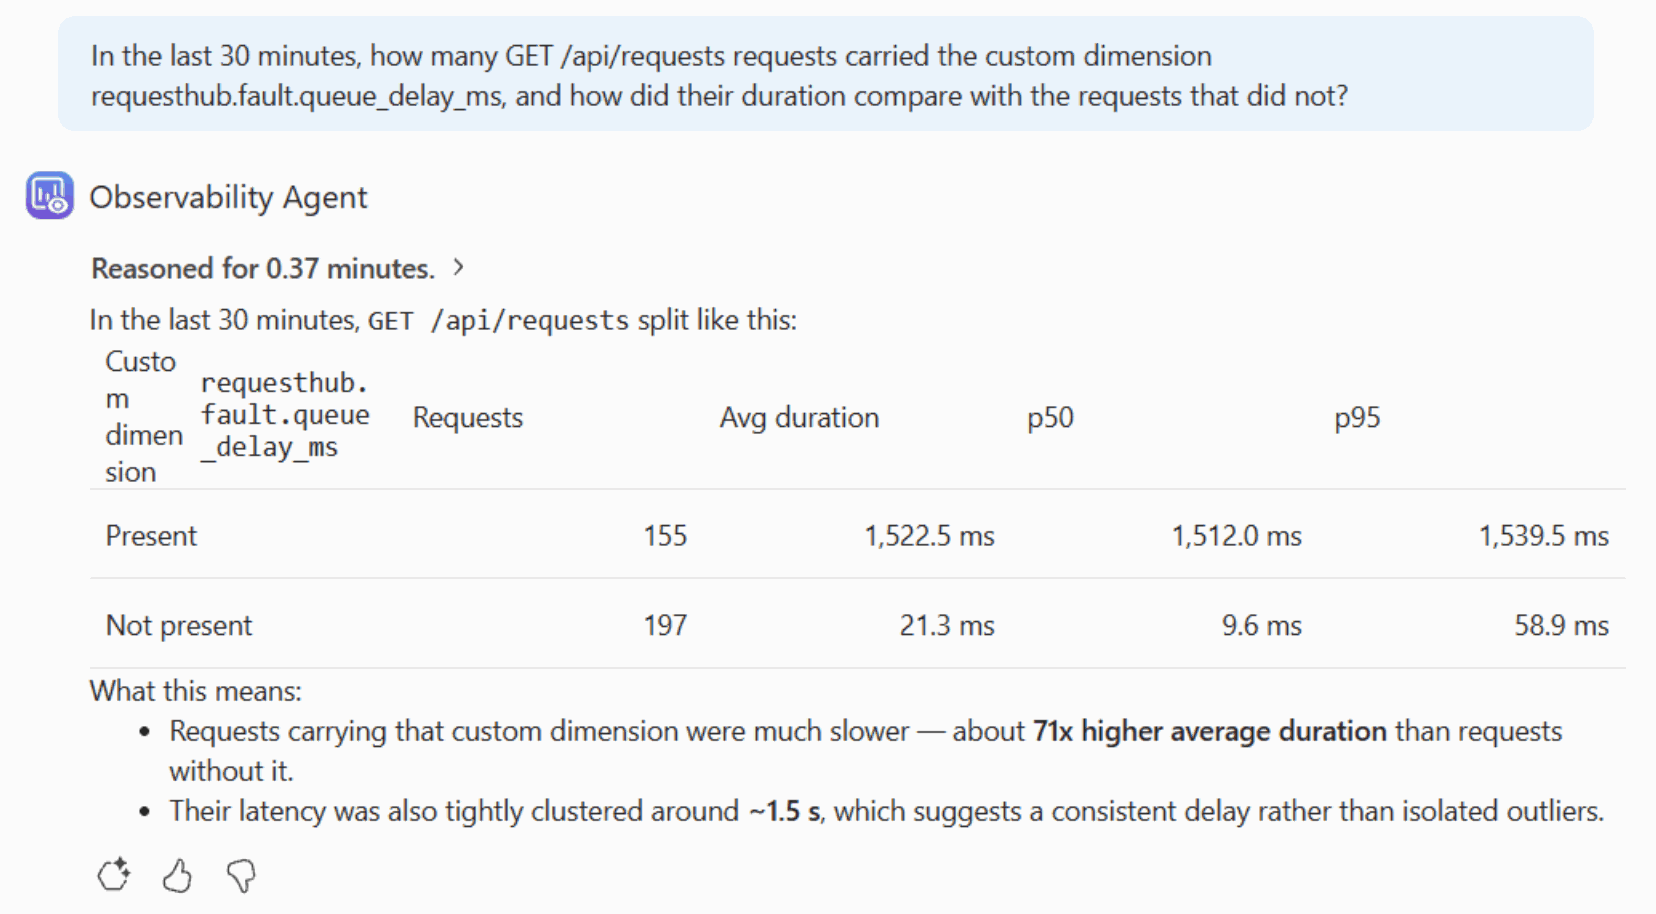
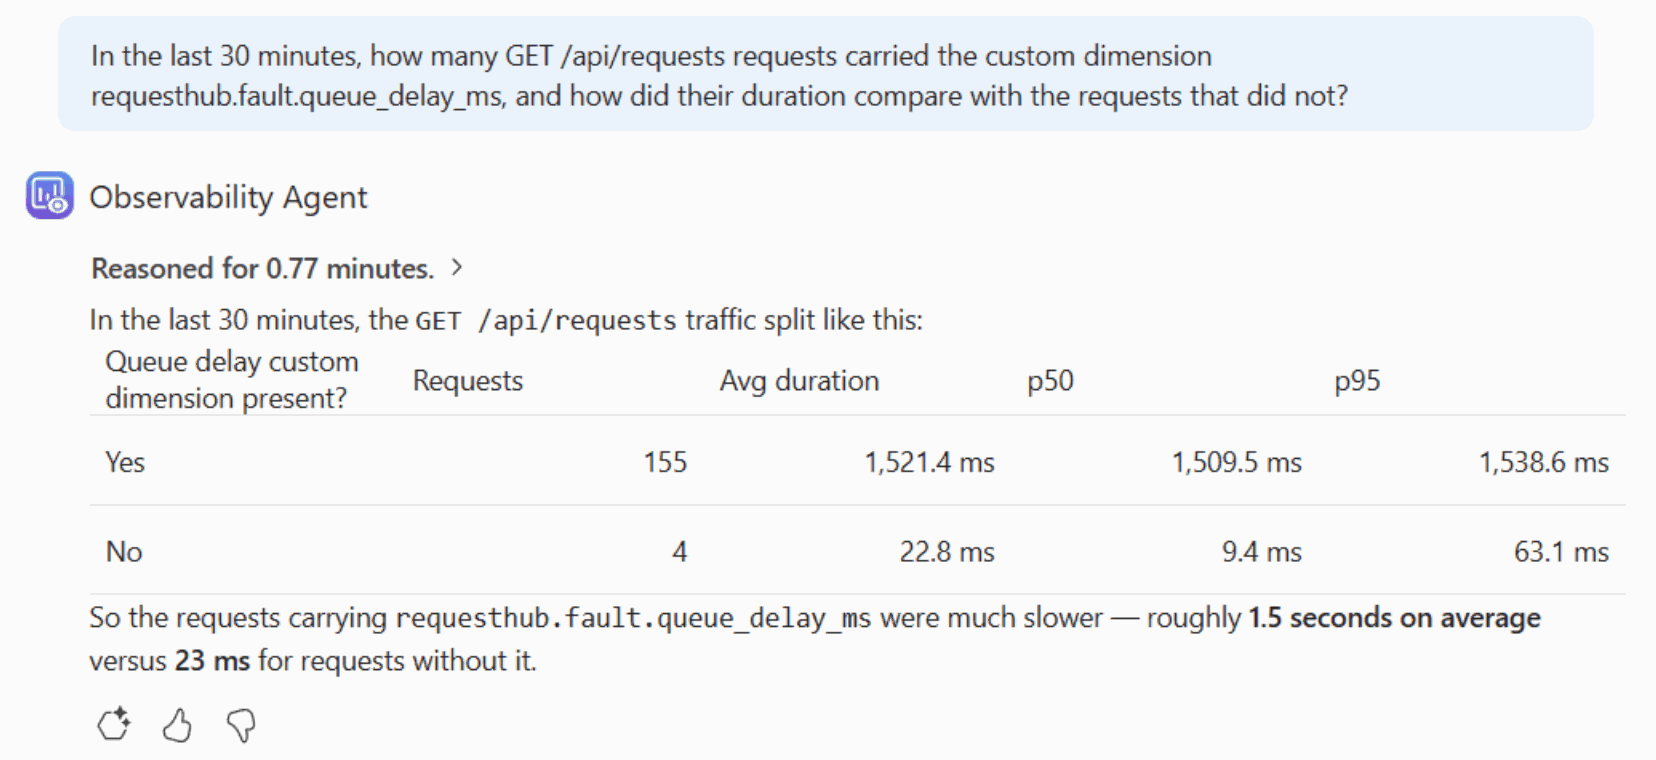
04-test-microsoft: screenshots from one live sequence with the Logic App posting to GitHub
With the GitHub token set, one live sequence on 2026-10-30: the slowdown, a failing run, the Logic App opening Issue #180, the Observability Agent's two answers, the fix, and a passing run that closed the Issue. The starting state, the test page, the notification rule, and steps 4 to 8 come from that sequence, so every number matches; steps 6 and 8 show the Logic App's run and the Issue again. Step 7 describes what this run's AI said: the summary missed the server metrics on its own dashboard, and the agent found the injected delay this time, with every number matching our own KQL. A run reaches its verdict in 8 to 9 minutes.

diff --git a/solutions/04-test-microsoft/README.md b/solutions/04-test-microsoft/README.md
@@ -2,7 +2,7 @@
 
 Most teams find out how their app behaves under load in production: a realistic load test is hard to set up, needs credentials, and produces charts nobody turns into a decision. In this solution the test lives in the repository, where people review changes to it, and everything else happens in Azure. Azure Load Testing runs RequestHub's real request-and-approval journey, signed in as two managed identities, and judges each run against pass/fail criteria. A notification rule hands every finished run to a Logic App, which writes the report and opens or closes a GitHub Issue. Two AI tools in Azure help explain a failure: the run's AI insights, and the Azure Copilot Observability Agent, which answers questions about the API's telemetry. A rehearsal slowdown on the deployed API shows the whole loop, and shows why people still check what the AI says.
 
-![The slowdown run in Azure Load Testing: Failed, test criteria not met. The experimental AI summary suggests backend constraints, more failed HTTP requests, and a container app limited to one replica; the statistics show 541 requests, a 1.52 second 90th percentile response time, and 0 percent errors](images/05-failed-run.png)
+![The slowdown run in Azure Load Testing: Failed, test criteria not met. The experimental AI summary says response times spiked on team-queue and my-requests and calls the root cause unclear because server metrics are missing; the statistics show 579 requests, a 1.51 second 90th percentile response time, and 0 percent errors](images/05-failed-run.png)
 
 ## Where it fits
 
@@ -153,16 +153,16 @@ About 5 minutes, from `solutions/04-test-microsoft`.
 
 2. **Open in advance.** In the browser, signed in: the Azure portal on resource group `rg-ai-sdlc-test` › the Load Testing resource › **Tests** › `requesthub-journey`; the Logic App's **Run history**; and the Application Insights resource › **Logs** with the **Agent** toggle on (close the Queries hub). The repository's Issues, filtered by the `load-test` label. A PowerShell 7 terminal in this folder. In your editor: [`loadtest/requesthub-journey.yaml`](loadtest/requesthub-journey.yaml) and [`loadtest/locustfile.py`](loadtest/locustfile.py).
 
-3. **Start early.** A run reaches its verdict about 8 minutes after you start it: 3 to start the engine, 2 of load, about 3 to compute the results. The Logic App reports it about 2 minutes later. Start step 2 about 10 minutes before you show it, and start step 8 when you open questions.
+3. **Start early.** A run reaches its verdict 8 to 9 minutes after you start it: about 3 to start the engine, 2 of load, and 3 to 4 to compute the results. The Logic App reports it about 2 minutes later. Start step 2 about 10 minutes before you show it, and start step 8 when you open questions.
 
    | Step | Takes | Where the time goes |
    | --- | --- | --- |
-   | 2. Baseline run | about 8 minutes | engine start, 2 minutes of load, results |
+   | 2. Baseline run | 8 to 9 minutes | engine start, 2 minutes of load, results |
    | 4. Slowdown on | 1 to 3 minutes | a new API revision rolls out |
-   | 5. Run again | about 8 minutes | the same run |
+   | 5. Run again | 8 to 9 minutes | the same run |
    | 6. Issue opens | about 2 minutes after the verdict | the notification, the Logic App waits for the verdict and telemetry |
    | 7. AI explains | about 5 minutes | about a minute per question to the Observability Agent |
-   | 8. Fix and confirm | about 12 minutes | 1 to 3 for the revision, about 8 for the run, about 2 for the Issue to close |
+   | 8. Fix and confirm | about 12 minutes | 1 to 3 for the revision, 8 to 9 for the run, about 2 for the Issue to close |
 
    Live from start to finish, the demo takes about 45 minutes; with step 2 started early and step 8 during questions, about 30.
 
@@ -188,7 +188,7 @@ In your editor, show [`loadtest/requesthub-journey.yaml`](loadtest/requesthub-jo
 
 ### 2. Run the baseline
 
-*About 8 minutes to the verdict. Go on to talk about the journey while it runs.*
+*8 to 9 minutes to the verdict. Go on to talk about the journey while it runs.*
 
 On the test page, select **Run**, then **Run** on the confirmation pane. Or, from the terminal, give the run a name:
 
@@ -226,13 +226,13 @@ python slowdown.py on
 
 This sets `Faults__QueueDelayMs=1500` and `Faults__ExpiresAtUtc` (30 minutes ahead) on the API, which rolls out a new revision. The script waits until the revision takes all traffic, calls the request list once to warm it up, then times three more calls from your machine. That time includes a network round trip, so look at the jump, not the absolute number.
 
-![slowdown.py on: 1,500 ms injected on the request list, expiring in 30 minutes; API revision 0000017 takes all traffic, the previous revision is deactivated, and GET /api/requests now takes 1,739 ms](images/04-slowdown-on.png)
+![slowdown.py on: 1,500 ms injected on the request list, expiring in 30 minutes; API revision 0000020 takes all traffic, the two previous revisions are deactivated, and GET /api/requests now takes 1,722 ms](images/04-slowdown-on.png)
 
 **Point out:** the fault switches itself off when it expires, even if the demo is interrupted.
 
 ### 5. Run again: the gate fails
 
-*About 8 minutes to the verdict.*
+*8 to 9 minutes to the verdict.*
 
 ```powershell
 az load test-run create --load-test-resource $lt -g rg-ai-sdlc-test --test-id requesthub-journey `
@@ -241,11 +241,11 @@ az load test-run create --load-test-resource $lt -g rg-ai-sdlc-test --test-id re
 
 The run completes with **Failed**: the two list requests miss their criteria, and submit, decide, and the error rate pass.
 
-![The After the slowdown run's test criteria: my-requests at 1,580 ms and team-queue at 1,600 ms fail their 1,000 ms limit at the 95th percentile; decide at 92 ms and submit at 197 ms pass their 1,500 ms limit, and the error rate passes at 0 percent](images/05-failed-criteria.png)
+![The After the slowdown run's test criteria: my-requests at 1,570 ms and team-queue at 1,580 ms fail their 1,000 ms limit at the 95th percentile; decide at 107 ms and submit at 106 ms pass their 1,500 ms limit, and the error rate passes at 0 percent](images/05-failed-criteria.png)
 
 Scroll down for the client-side and server-side metrics of the same window.
 
-![Client-side and server-side metrics of the After the slowdown run: my-requests and team-queue at about 1.5 seconds at the 90th percentile from the first minute, while decide and submit stay below 200 ms, and no client errors. On the server: one replica, low CPU on the API and the database, and a few failed requests](images/05-failed-metrics.png)
+![Client-side and server-side metrics of the After the slowdown run: 10 virtual users; my-requests and team-queue at about 1.55 seconds at the 90th percentile throughout, decide and submit below 120 ms after the first seconds, and no client errors. On the server: one replica, the API's CPU at most about 20 percent, the database's around 10 percent with about 11 connections, and a few failed requests, which are the journey's deliberate 403 checks](images/05-failed-metrics.png)
 
 **Point out:** the criteria isolate the regression to the two list requests while the rest of the journey stays fast.
 
@@ -255,35 +255,38 @@ Scroll down for the client-side and server-side metrics of the same window.
 
 Open the Logic App's **Run history** and select the newest run. Azure Load Testing's notification rule called the action group, which called the Logic App. The Logic App waited until the run had its verdict and Application Insights had the run's last requests. It built the report from the run and the API's telemetry, found no open Issue for this test, and opened one.
 
-**Point out:** the report proves the cause. Its verdict says 148 server requests carried the injected delay, so it labels the run an expected failure, a rehearsal of the gate, not an acceptance run. The server-side counts run below the client's (148 against 182 list requests) because under load Application Insights keeps only a sample of the API's requests. The Issue names the run and the resource group, never a host name or an id.
+![The lower half of the Logic App's run for the After the slowdown notification: Wait for the telemetry passed on its first check, then Build the report, Report, and Verdict; GitHub token configured took the True branch through Find the open load test Issues, This tests open Issues, The open Issue, and Passed or failed, and skipped No GitHub token configured. Every step succeeded](images/06-logic-app-run.png)
+
+![Issue #180, which the Logic App opened: [load-test requesthub-journey] RequestHub journey missed its performance criteria, open with status Backlog and the load-test label. Its report: After the slowdown FAILED with 10 virtual users for 119 s; Expected failure, because 151 server requests carried requesthub.fault.queue_delay_ms; my-requests at 1,570 ms and team-queue at 1,580 ms failed their 1,000 ms limit, while the error rate, decide, and submit passed](images/06-issue-opened.png)
+
+**Point out:** the report proves the cause. Its verdict says 151 server requests carried the injected delay, so it labels the run an expected failure, a rehearsal of the gate, not an acceptance run. The server-side counts run below the client's (151 against 198 list requests) because under load Application Insights keeps only a sample of the API's requests. The Issue names the run and the resource group, never a host name or an id.
 
 ### 7. AI explains, people verify
 
 *About 5 minutes.*
 
-Open the failed run's dashboard. For a failed run, the **AI summary and insights** usually appear on their own about a minute after the verdict; if you see **Get insights**, select it. The AI reads the run's client-side and server-side metrics and writes a summary with key insights.
+Open the failed run's dashboard. For a failed run, the **AI summary and insights** usually appear on their own a minute or two after the verdict; if you see **Get insights**, select it. The AI reads the run's client-side and server-side metrics and writes a summary with key insights.
 
-![The After the slowdown run with its experimental AI summary: the two list requests above 1,500 ms suggest backend bottlenecks; Application Insights shows more failed HTTP requests and longer durations; short request-rate spikes the server couldn't absorb; and a container app that ran on only one replica](images/05-failed-run.png)
+![The After the slowdown run with its experimental AI summary: a 2 minute, 5 virtual user run that failed 2 criteria, with prolonged latency spikes on team-queue and my-requests, and the root cause unclear due to missing server metrics. Its key insights: team-queue and my-requests well above 1,500 ms at the 95th percentile; denied-invalid-token, decide, and submit got faster as users ramped up; open-request, denied-other-department, and my-requests stayed fast; and the two denied checks' request rates oscillated](images/05-failed-run.png)
 
 Then open the Application Insights resource › **Logs**, with the **Agent** toggle on, and ask the Observability Agent a neutral question: *Why was GET /api/requests slow in the last 30 minutes?* It reasons for about a minute, runs its own KQL, and answers with where the time went.
 
-![The Observability Agent's answer to the neutral question, after 1.23 minutes: 352 GET /api/requests requests, a 1.52 second 95th percentile, and no failures; the slowdown concentrated between 19:20 and 19:25 UTC, while 180 requests at 19:10 had a 27 ms 95th percentile; the slowest request took 2.52 seconds, with a first database call of about 499 ms, and PostgreSQL was usually fast. Its interpretation: a transient wait at the start of request handling, caused by a burst](images/07-agent-where.png)
+![The Observability Agent's answer to the neutral question, after 1.23 minutes: the slowdown was caused by a consistent 1.5 second queue delay before GET /api/requests was processed, not by the PostgreSQL dependency. Its evidence: 151 requests at a 1,537 ms 95th percentile in the busy 5 minutes; 155 slow requests carried requesthub.fault.queue_delay_ms, at 1,500 ms; the database's 467 calls had a 5.1 ms 95th percentile and no failures; no related exceptions. Next step: find what introduces the delay](images/07-agent-where.png)
 
-Neither AI names the cause. Now the presenter asks the agent to check a hypothesis against the telemetry. The API marks every request it slows down on purpose, so ask: *In the last 30 minutes, how many GET /api/requests requests carried the custom dimension requesthub.fault.queue_delay_ms, and how did their duration compare with the requests that did not?*
+In the run shown, the agent found the property that the API sets on every request it slows down on purpose, without being told about it. Its answers vary from run to run: in an earlier rehearsal, the same question blamed a burst of load. Whichever answer you get, check the lead against the telemetry: *In the last 30 minutes, how many GET /api/requests requests carried the custom dimension requesthub.fault.queue_delay_ms, and how did their duration compare with the requests that did not?*
 
-![The Observability Agent checks the hypothesis in 0.37 minutes: 155 requests carried the dimension and averaged 1,522.5 ms, with a 1,539.5 ms 95th percentile; 197 did not and averaged 21.3 ms, with a 58.9 ms 95th percentile; about 71 times slower, clustered around 1.5 seconds, so a consistent delay rather than outliers](images/07-agent-hypothesis.png)
+![The Observability Agent's answer after 0.77 minutes: in the last 30 minutes, 155 GET /api/requests requests carried requesthub.fault.queue_delay_ms and averaged 1,521.4 ms, with a 1,538.6 ms 95th percentile; 4 did not and averaged 22.8 ms, with a 63.1 ms 95th percentile](images/07-agent-hypothesis.png)
 
-**Point out:** neither AI found the cause on its own, and every lead needs checking against the evidence on screen.
+**Point out:** the two AI tools read the same run differently, and the evidence on screen settles it.
 
-- The summary's *failed HTTP requests* are the journey's own checks that a request from another department gets 403. The journey expects those, so the client shows 0 percent errors. Its *5 VUs peak* counts the users per request (the run had 10), RequestHub runs on Container Apps rather than App Service, and a second replica wouldn't remove a fixed 1.5 second wait.
-- The agent explained its slowest request, which was the first call to the new revision in step 4, and blamed a burst of load. Its own table shows an earlier passing run at 19:10, with the same load, at a 27 ms 95th percentile.
-- The agent confirmed the cause because the presenter supplied the hypothesis. Select **Reasoned for** to see the KQL it ran. Its 155 requests cover 30 minutes, including the four timing calls from step 4; the report's 148 count only the run's own window.
+- The run's summary calls the root cause unclear "due to missing server metrics", yet the server-side metrics are on the same dashboard (step 5). Its *5 VUs* counts the users per request (the run had 10), and it lists my-requests both among the slow requests and among the ones that stayed fast.
+- The agent found the injected delay, and every number it gave matches our own KQL. Select **Reasoned for** to see the queries it ran. Its 155 requests cover 30 minutes, including the four timing calls from step 4; the 4 without the property are the timing calls from the starting-state check. The report's 151 count only the run's own window.
 
 AI finds leads quickly; people check them, and the criteria and the report decide.
 
 ### 8. Fix and confirm
 
-*About 12 minutes: 1 to 3 for the revision, about 8 for the run, about 2 for the Issue to close.*
+*About 12 minutes: 1 to 3 for the revision, 8 to 9 for the run, about 2 for the Issue to close.*
 
 ```powershell
 python slowdown.py off
@@ -291,9 +294,11 @@ az load test-run create --load-test-resource $lt -g rg-ai-sdlc-test --test-id re
   --test-run-id "fix-$(Get-Date -Format yyyyMMdd-HHmmss)" --display-name "After the fix" --no-wait
 ```
 
-![slowdown.py off: API revision 0000018, without the slowdown, takes all traffic, the previous revision is deactivated, and GET /api/requests takes 296 ms](images/08-slowdown-off.png)
+![slowdown.py off: API revision 0000021, without the slowdown, takes all traffic, the previous revision is deactivated, and GET /api/requests takes 297 ms](images/08-slowdown-off.png)
 
 The run passes, and the report finds no injected delay. About 2 minutes later the Logic App comments on the Issue with the passing report and closes it.
+
+![Issue #180, now Done, at the Logic App's comment: After the fix passed every criterion. Closing. Its report: PASSED with 10 virtual users for 120 s; Accepted, because the journey met every criterion and no server request carried the rehearsal slowdown; my-requests at 84 ms and team-queue at 81 ms against 1,000 ms, decide at 111 ms and submit at 172 ms against 1,500 ms, and 0 percent errors](images/08-issue-closed.png)
 
 **Point out:** nobody had to remember to follow up. The Issue opened on the failure and closed itself on the next accepted run. A run that passes while the slowdown is still on, or a replay of an older run, leaves it open.
 
@@ -335,7 +340,7 @@ Expect `PASS` from the check, `Cleanup: deleted ... requests owned by u-ben`, an
 - **AI and orchestration in Azure.** Azure Load Testing runs and judges the test, a notification rule and a Logic App report it, and Azure's AI explains it. GitHub keeps the code, the reviews, and the Issue.
 - **A real journey, signed in, with no secret.** The engines borrow two managed identities. The API applies the same roles and department checks as for people, and the denial checks prove it under load.
 - **Pass/fail, not a chart.** The criteria are code, reviewed in pull requests. A slowdown of 1.5 seconds on one endpoint fails the run within minutes.
-- **AI suggests, people verify.** The run's AI summary and the Observability Agent read the same telemetry, and each offered plausible leads that the evidence on screen contradicts. A hypothesis checked against the telemetry, the criteria, and the report settle it.
+- **AI suggests, people verify.** The run's AI summary and the Observability Agent read the same run differently: the summary missed the server metrics on its own dashboard, and the agent found the injected delay, which it doesn't do every time. A lead checked against the telemetry, the criteria, and the report settle it.
 - **Follow-up without anyone remembering.** The Issue opens on the first failure, collects later failures as comments, and closes itself on the next accepted run.
 - **Least access.** The Logic App's identity can only read test runs and telemetry. Its GitHub token reaches one repository and only its Issues. The Issues name runs and the resource group, never hosts or ids.
 

diff --git a/PRESENTING.md b/PRESENTING.md
@@ -26,7 +26,7 @@ Whatever the format, tell the same story: one app, RequestHub, goes through ever
 | [03-develop-github](solutions/03-develop-github/) | 25 min | Create the Issue and assign it to Copilot at least 30 minutes before: it works for 20 to 30. Run the Copilot CLI step (about 20 minutes) beforehand too. |
 | [03-develop-microsoft](solutions/03-develop-microsoft/) | 20 min | Run the reviewer's dry run on pull request #36 (about 3 minutes) to confirm its GitHub token still works. For fresh evaluation results, start `eval_reviewer.py` about 15 minutes before. |
 | [04-test-github](solutions/04-test-github/) | 20 min | Rebuild the lab branch and assign the Issue to Copilot 30 minutes before: it works for 15 to 30. The optional Copilot CLI step takes 12 to 18 minutes. |
-| [04-test-microsoft](solutions/04-test-microsoft/) | 30 min (45 fully live) | Start the baseline Azure Load Testing run from the portal about 10 minutes before its step: a run reaches its verdict in about 8 minutes, and the Logic App reports it about 2 minutes later. Start the final passing run during questions. |
+| [04-test-microsoft](solutions/04-test-microsoft/) | 30 min (45 fully live) | Start the baseline Azure Load Testing run from the portal about 10 minutes before its step: a run reaches its verdict in 8 to 9 minutes, and the Logic App reports it about 2 minutes later. Start the final passing run during questions. |
 | [05-secure-github](solutions/05-secure-github/) | 15 min | Prepare the lab and start the review and the cloud agent 30 to 45 minutes before: the review took about 6 minutes and the repair 15 in the screenshot run. |
 | [05-secure-microsoft](solutions/05-secure-microsoft/) | 30 min (15 with the agent's pull request ready) | In a short slot, select **Trigger logic app** on the recommendation about 10 minutes before: the Issue, the agent's draft pull request, and its what-if preview follow in about 5 minutes. Defender for Cloud must still report the account Unhealthy, so reset at least a day before. Azure Policy can take up to 15 minutes to re-evaluate after the fix. |
 | [06-release-github](solutions/06-release-github/) | 20 min | Start the release candidate about 15 minutes before: the candidate takes 3.5 to 7 minutes, and Copilot's summary 5 to 6 more. |
